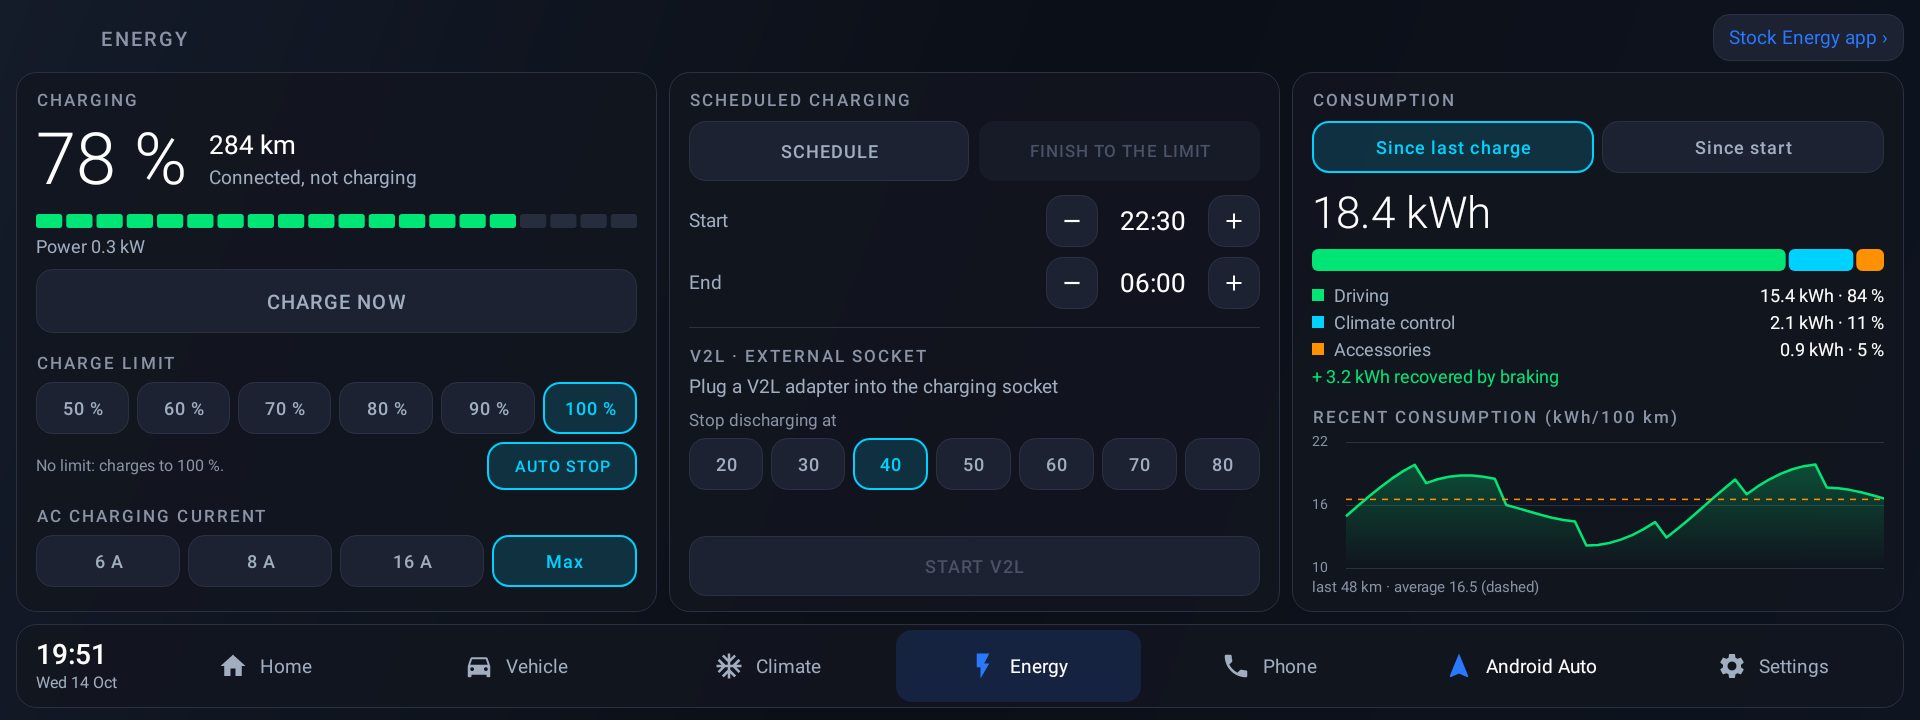
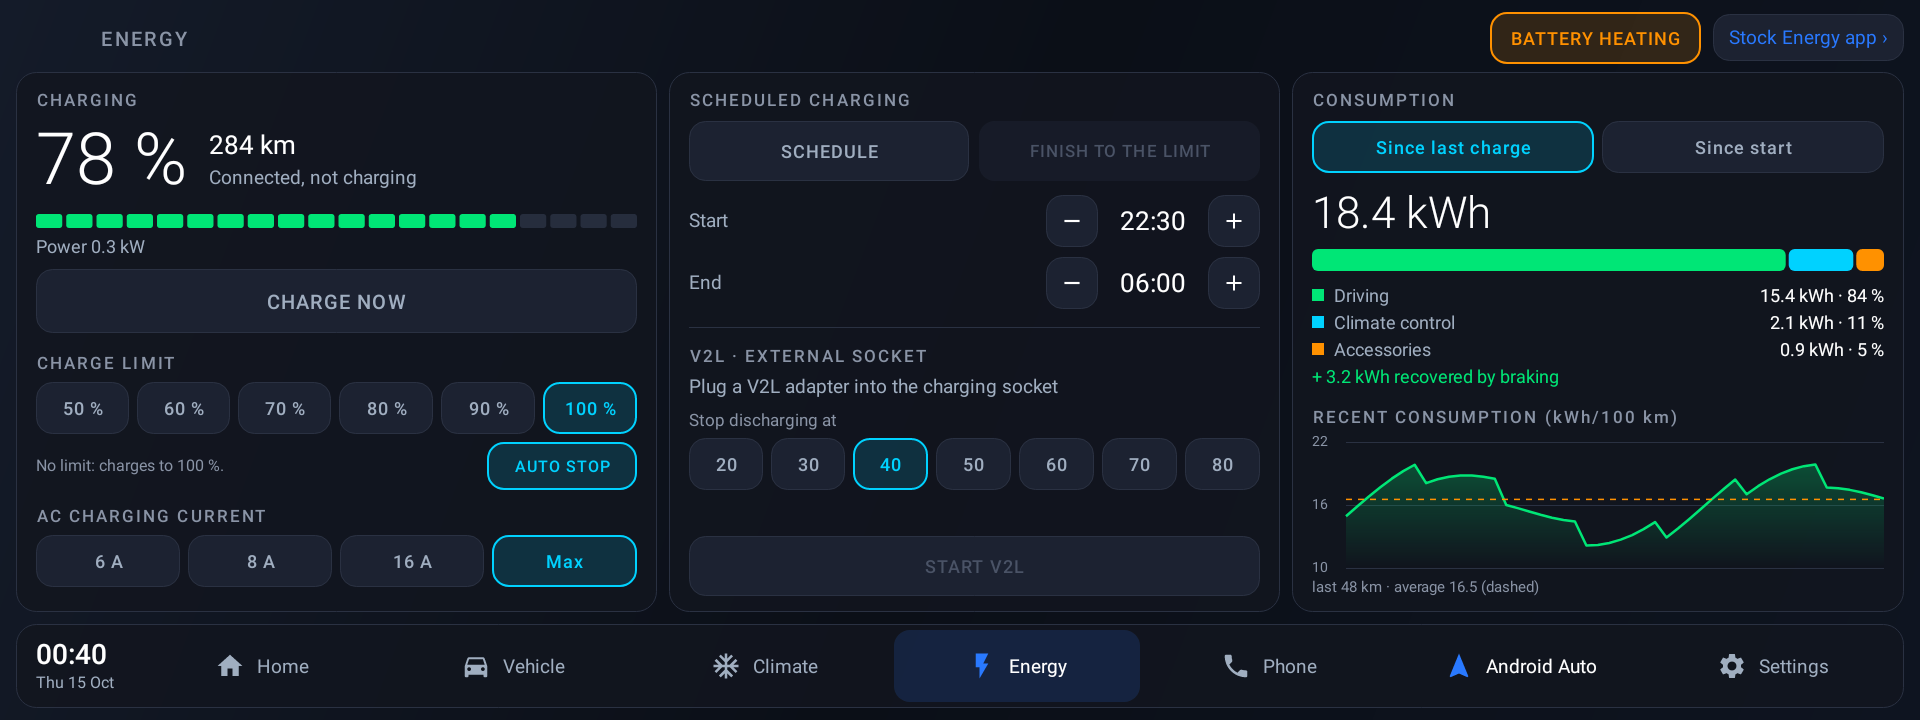
Energy page: battery heating switch (DRVNG_PTC_HEAT, as in the stock Energy app)

diff --git a/app/src/main/java/app/mg4dash/pages/EnergyActivity.kt b/app/src/main/java/app/mg4dash/pages/EnergyActivity.kt
@@ -44,6 +44,7 @@ class EnergyActivity : PageActivity() {
     private lateinit var setLimit: (Int?) -> Unit
     private lateinit var setCurrent: (Int?) -> Unit
     private lateinit var enforce: TextView
+    private lateinit var heating: TextView
     // Programmation
     private lateinit var schedule: TextView
     private lateinit var finish: TextView
@@ -73,6 +74,13 @@ class EnergyActivity : PageActivity() {
             setBackgroundResource(R.drawable.bg_button)
             setOnClickListener { Apps.open(this@EnergyActivity, Apps.ENERGY, "SAIC") }
         })
+        // Réchauffage de la batterie en roulant (même réglage que l'appli Énergie SAIC)
+        heating = kit.toggleTile(getString(R.string.en_heating), heat = true) {
+            val on = heating.isSelected
+            CarProps.setInt(CarProps.DRVNG_PTC_HEAT, if (on) 2 else 1, "réchauffage batterie")
+            heating.postDelayed({ refreshProps() }, 1500)
+        }.apply { textSize = 18f; setPadding(kit.dp(20), 0, kit.dp(20), 0) }
+        header.addView(heating, header.childCount - 1, kit.lp(-2, kit.dp(52), r = 12))   // avant le lien SAIC
 
         // ── Colonne 1 : recharge ──
         val c1 = kit.panel(getString(R.string.en_charging))
@@ -187,7 +195,7 @@ class EnergyActivity : PageActivity() {
 
     private data class Props(
         val target: Int?, val current: Int?, val reser: Int?, val st: Pair<Int?, Int?>, val sp: Pair<Int?, Int?>,
-        val v2l: Int?, val volt: Float?, val amp: Float?, val cons: FloatArray,
+        val v2l: Int?, val volt: Float?, val amp: Float?, val cons: FloatArray, val heat: Int? = null,
     )
 
     private fun refreshProps() {
@@ -208,6 +216,7 @@ class EnergyActivity : PageActivity() {
                         f(if (chrg) CarProps.CONS_ACCRY_AFT_CHRG else CarProps.CONS_ACCRY_AFT_ST, if (chrg) CarProps.OLD_ACC_AFT_CHRG else CarProps.OLD_ACC_AFT_ST) ?: -1f,
                         f(if (chrg) CarProps.CONS_RGEN_AFT_CHRG else CarProps.CONS_RGEN_AFT_ST, if (chrg) CarProps.OLD_RGEN_AFT_CHRG else CarProps.OLD_RGEN_AFT_ST) ?: -1f,
                     ),
+                    CarProps.getInt(CarProps.DRVNG_PTC_HEAT),
                 )
             }
             renderProps(p)
@@ -216,6 +225,8 @@ class EnergyActivity : PageActivity() {
 
     private fun renderProps(p: Props) {
         reser = p.reser
+        heating.isSelected = p.heat == 1
+        heating.isEnabled = p.heat != null
         val carLimit = CarProps.targetSocPercent(p.target)
         renderLimit(carLimit)
         setCurrent(p.current?.minus(1))

diff --git a/app/src/main/java/app/mg4dash/car/CarProps.kt b/app/src/main/java/app/mg4dash/car/CarProps.kt
@@ -25,6 +25,7 @@ object CarProps {
     const val ALTNG_CHRG_CRNT = 557904907        // courant AC : 1 = 6 A, 2 = 8 A, 3 = 16 A, 4 = max
     const val V2X_SP_SOC = 557904943             // seuil d'arrêt V2L : code 1..7 = 20..80 %
     const val V2X = 557904944                    // décharge V2L en cours : 1
+    const val DRVNG_PTC_HEAT = 557904937         // réchauffage batterie en roulant : 1 = activé, 2 = désactivé (appli Énergie SAIC)
     const val BMS_PACK_VOL = 560002054           // tension batterie (V, float)
     const val BMS_PACK_CRNT = 560002055          // courant batterie (A, float)
     const val ELEC_CSUMP_PERKM = 560002077       // conso récente (kWh/100 km, float)
@@ -142,7 +143,7 @@ object CarProps {
 
     private fun seedMock() {
         mock[CHRG_TRGT_SOC] = 7; mock[RESER_CTRL] = 2; mock[RESER_ST_HOUR] = 22; mock[RESER_ST_MIN] = 30
-        mock[RESER_SP_HOUR] = 6; mock[RESER_SP_MIN] = 0; mock[ALTNG_CHRG_CRNT] = 4; mock[V2X_SP_SOC] = 3; mock[V2X] = 0
+        mock[RESER_SP_HOUR] = 6; mock[RESER_SP_MIN] = 0; mock[ALTNG_CHRG_CRNT] = 4; mock[V2X_SP_SOC] = 3; mock[V2X] = 0; mock[DRVNG_PTC_HEAT] = 1
         mock[BMS_PACK_VOL] = 352.4f; mock[BMS_PACK_CRNT] = -0.8f; mock[ELEC_CSUMP_PERKM] = 15.6f
         mock[CONS_TOTAL_AFT_CHRG] = 18.4f; mock[CONS_ATC_AFT_CHRG] = 2.1f; mock[CONS_ACCRY_AFT_CHRG] = 0.9f; mock[CONS_RGEN_AFT_CHRG] = 3.2f
         mock[CONS_TOTAL_AFT_ST] = 3.6f; mock[CONS_ATC_AFT_ST] = 0.5f; mock[CONS_ACCRY_AFT_ST] = 0.2f; mock[CONS_RGEN_AFT_ST] = 0.7f

diff --git a/README.md b/README.md
@@ -25,8 +25,8 @@ The button at the top right of the map swaps it for 2 pages of 4 × 2 shortcuts:
 Temperature in 1° steps (LO → HI), fan speed, combinable air direction, AUTO, A/C, ECO, recirculation and front / rear defrost.
 
 ### Energy
-![Energy](docs/screenshots/energy.png?v=2)
-Charging (start / stop, charge limit enforced by MG4Dash, AC current), scheduled charging, V2L (stop threshold, start / stop) and consumption (driving, climate, accessories, regeneration, curve of the last kilometres).
+![Energy](docs/screenshots/energy.png?v=3)
+Charging (start / stop, charge limit enforced by MG4Dash, AC current), scheduled charging, V2L (stop threshold, start / stop), battery heating while driving (same switch as the stock Energy app) and consumption (driving, climate, accessories, regeneration, curve of the last kilometres).
 
 ### Vehicle
 ![Vehicle](docs/screenshots/vehicle.png?v=2)
